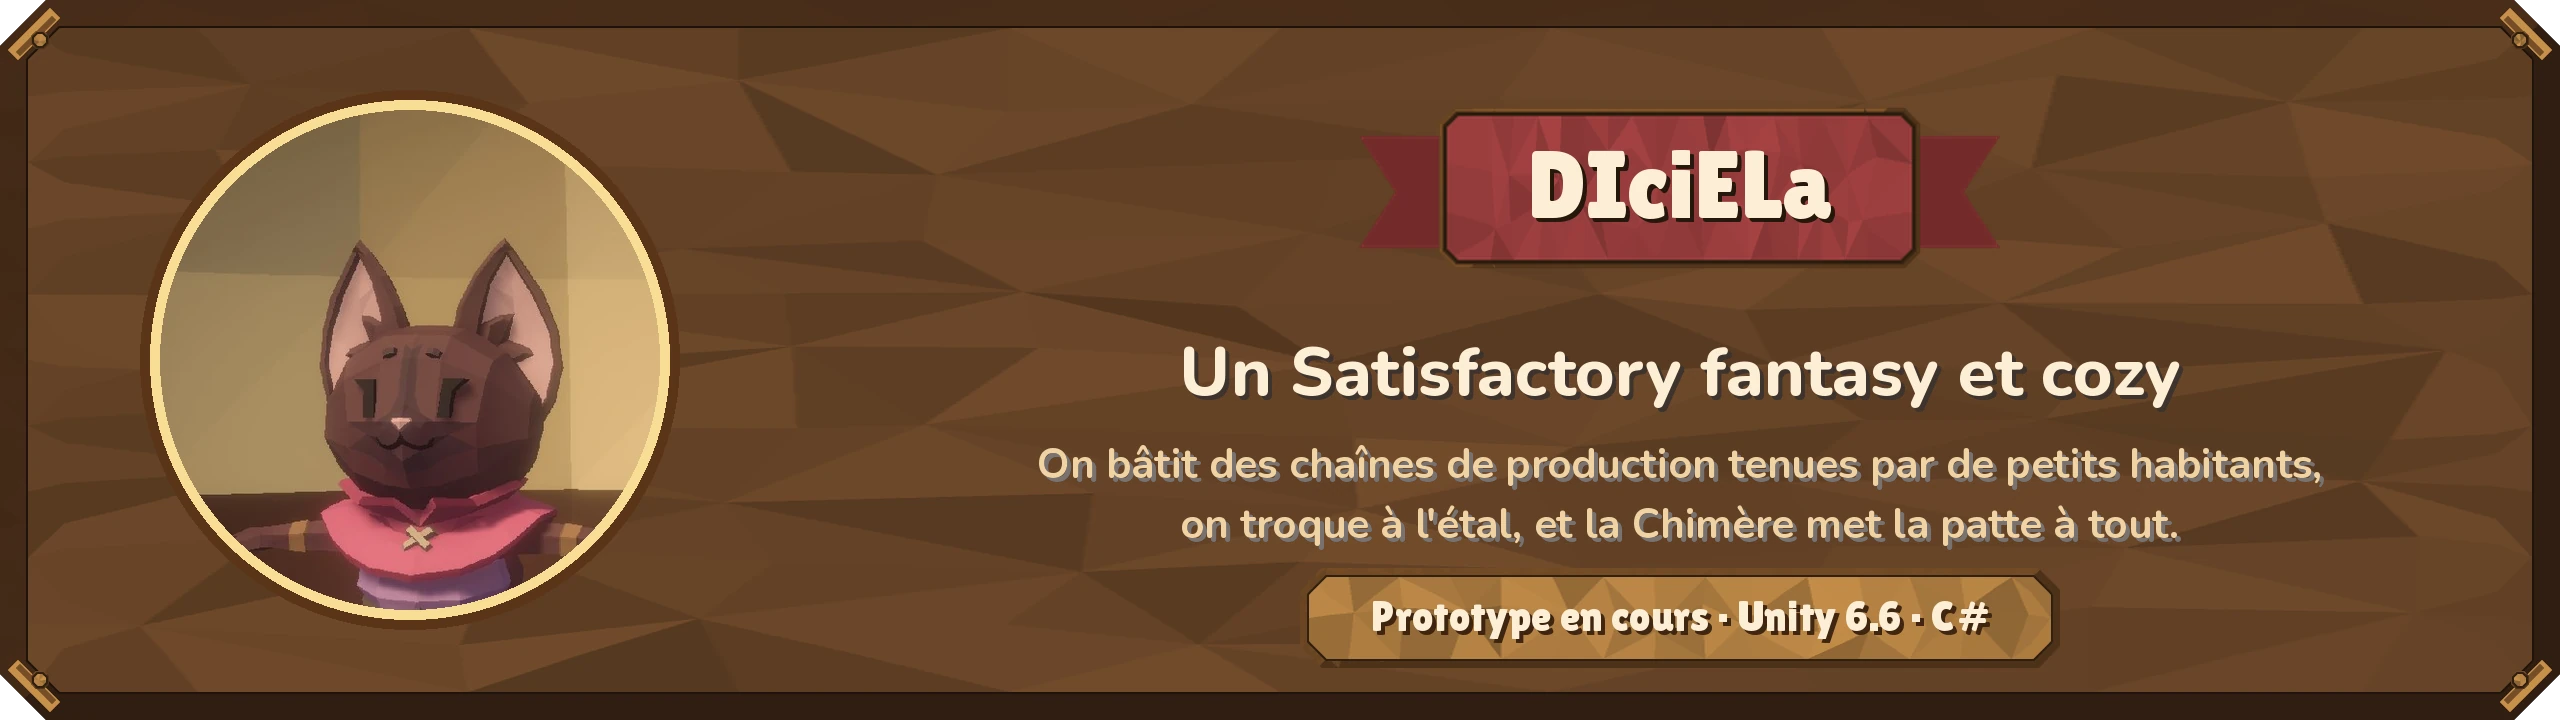
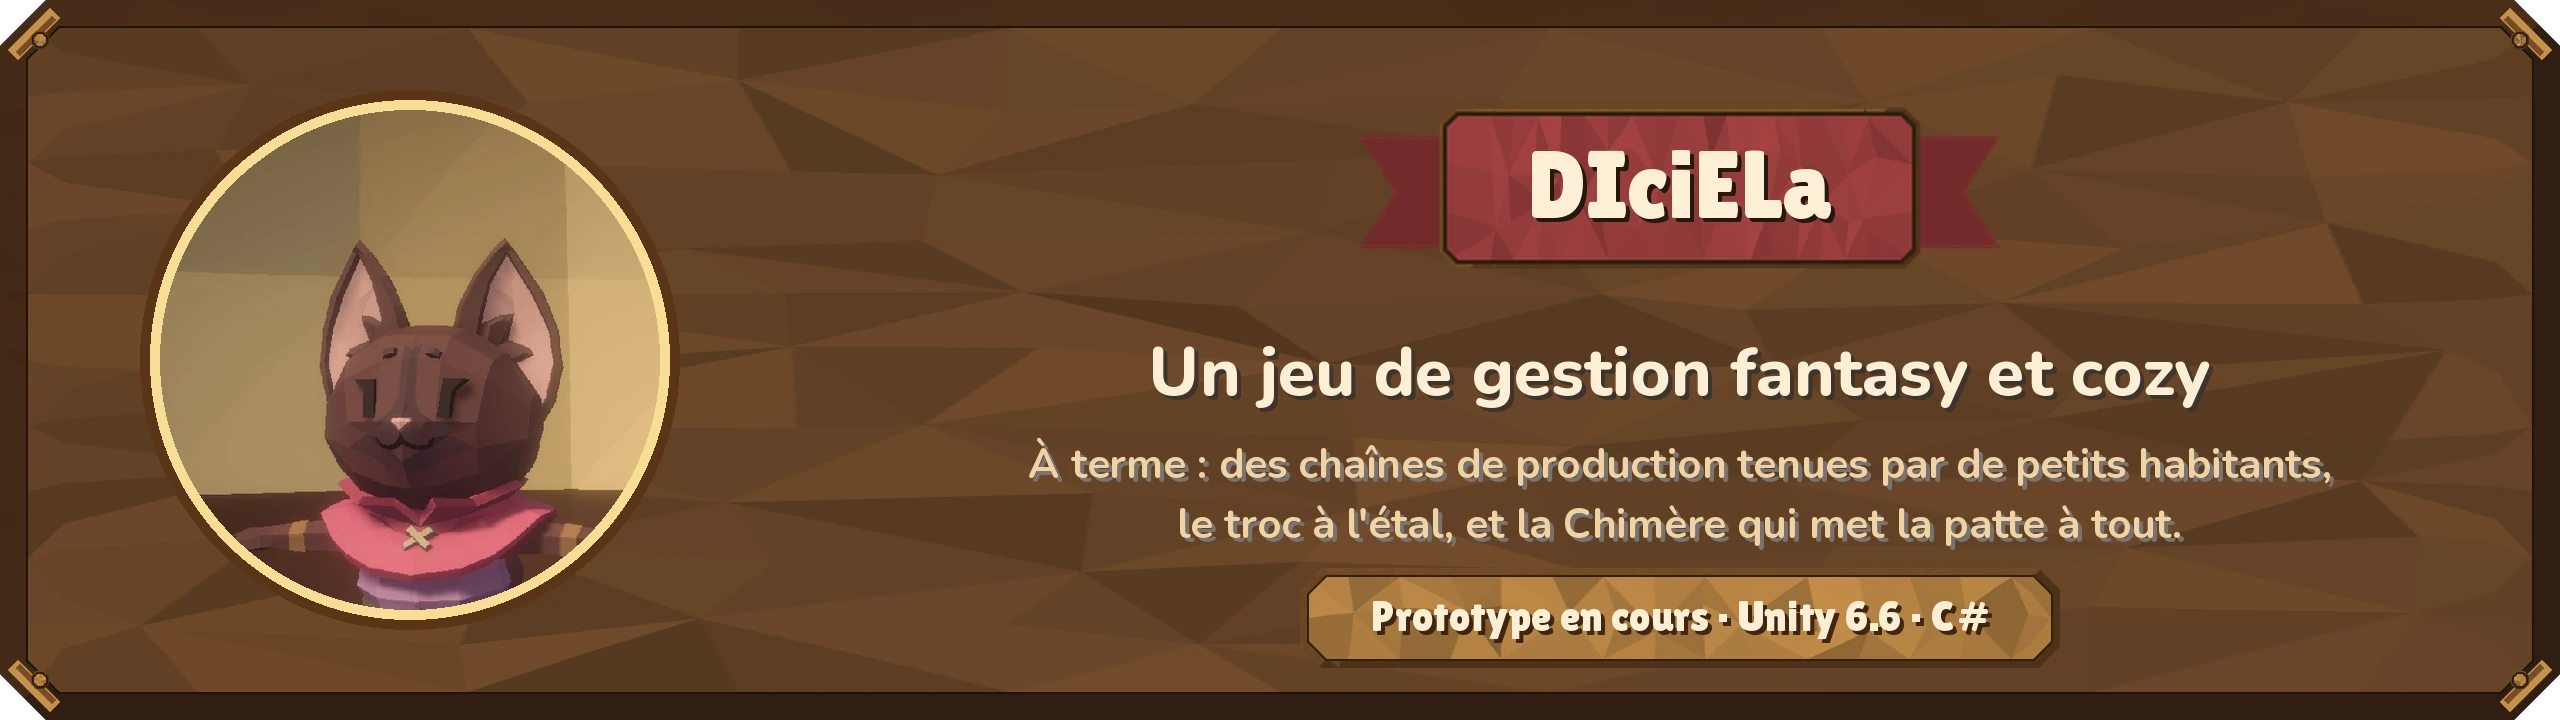
README de la vitrine : la part de Claude Code dite telle qu'elle est, et seulement ce qui existe
- Le C# est écrit par Claude Code ; je conçois, je tranche (souvent sur ses recommandations) et je vérifie en jeu : la
  formule d'avant le 14/10, rétablie.
- Ce qui viendra est au futur : les métiers qui progressent, les chaînes de production, le troc ; le résumé anglais aussi.
  La bannière dit « un jeu de gestion fantasy et cozy », plus « un Satisfactory fantasy » (Tools/vitrine_images.py).
- Ce qui était inexact : « C# pur » devient « C# sans MonoBehaviour ni scène » ; « aucun fichier » de plus de 200 lignes,
  « aucun fichier C# » ; « aucun nombre magique » part, la dette est dans ETAT.md ; « ateliers » quitte le schéma (stocks,
  chantiers, étals) ; le test d'architecture lit les règles recopiées d'ARCHITECTURE.md ; « trois habitants » : deux, et la
  Chimère ; « Code and docs are in French » : le code est en anglais ; les 35 outils : 9 pour le projet, 26 pour l'album ;
  « les images de cette page » : les bandeaux et les plaques, le reste étant des captures.
- La licence du pack, dite exactement : aucun modèle, maillage, texture ni animation n'est publié ; le dépôt a des
  captures, les vignettes des constructions et trois réglages repris de la démo.
- L'album perd les 14 planches de l'étape 13 qui montraient des pièces du pack hors du jeu, sur fond neutre ; une note les
  remplace.
- Tools/README.md : vitrine.sh reste dans le dépôt de travail.
- .claude/settings.json : le lien de session ne part plus dans les commits ; la co-signature reste.

Changed region(s): [[0.4375, 0.4889, 0.875, 0.5806], [0.4062, 0.6111, 0.9062, 0.6722], [0.4375, 0.7028, 0.8438, 0.7639]]

diff --git a/Tools/vitrine_images.py b/Tools/vitrine_images.py
@@ -118,10 +118,10 @@ def banniere() -> Image.Image:
     titre = ruban("DIciELa", 96)
     image.alpha_composite(titre, (int(milieu * S - titre.width / 2), int(46 * S)))
     dessin = ImageDraw.Draw(image)
-    ecrire(dessin, (milieu * S, 186 * S), "Un Satisfactory fantasy et cozy", police(NUNITO_FORT, 34), LIN)
+    ecrire(dessin, (milieu * S, 186 * S), "Un jeu de gestion fantasy et cozy", police(NUNITO_FORT, 34), LIN)
     lignes = [
-        "On bâtit des chaînes de production tenues par de petits habitants,",
-        "on troque à l'étal, et la Chimère met la patte à tout.",
+        "À terme : des chaînes de production tenues par de petits habitants,",
+        "le troc à l'étal, et la Chimère qui met la patte à tout.",
     ]
     for rang, ligne in enumerate(lignes):
         ecrire(dessin, (milieu * S, (232 + rang * 30) * S), ligne, police(NUNITO, 21), SABLE, (28, 16, 8, 150))

diff --git a/README.md b/README.md
@@ -1,21 +1,22 @@
 <p align="center">
-  <img src="Docs/Vitrine/banniere.webp" alt="DIciELa, un Satisfactory fantasy et cozy : la Chimère dans son médaillon, sur le panneau de bois de l'interface du jeu" width="100%">
+  <img src="Docs/Vitrine/banniere.webp" alt="DIciELa, un jeu de gestion fantasy et cozy, en prototype : la Chimère dans son médaillon, sur le panneau de bois de l'interface du jeu" width="100%">
 </p>
 
-> **In English.** DIciELa is a cozy fantasy production‑chain game, still a prototype (Unity 6.6, C#). Little villagers
-> with real jobs run your production chains, you barter at the market stall, and the Chimera, our mascot, lends a paw
-> everywhere. This repository also shows how it is built: a pure C# simulation whose boundaries are enforced by tests,
-> editor tools that build the project, and a framework that keeps an AI coding assistant on track. Code and docs are in
-> French.
+> **In English.** DIciELa is a cozy fantasy production‑chain game, still a prototype (Unity 6.6, C#). The plan: little
+> villagers with jobs run your production chains, you barter at the market stall, and the Chimera, our mascot, lends a
+> paw everywhere. Today, the first day is playable: creating the Chimera, the camp, building sites, paths, and a preview
+> of the finished town. This repository also shows how it is built: a C# simulation with no MonoBehaviour, whose
+> boundaries are enforced by tests, editor tools that build the project, and the framework I set up for Claude Code,
+> which writes the C#. The code is in English, the docs in French.
 
 <p align="center"><img src="Docs/Vitrine/ruban-le-jeu.webp" alt="Le jeu" height="56"></p>
 
 ![Une cabane coiffée de lierre, la Chimère qui s'affaire à côté, le bois et la pierre du campement, et la prochaine construction en fantôme](Docs/Album/2026-10-02_etape-28_toit-et-lierre.jpg)
 
 Tout commence par une clairière, un tas de bois, un peu de pierre, et la Chimère. On installe le campement, la Chimère y
-prend son poste : elle porte le bois et la pierre, et les cabanes montent planche par planche. Puis arrivent les premiers habitants : chacun a un métier, et
-progresse en travaillant. À terme, ce sont eux qui tiennent les chaînes de production, pendant que vous troquez à l'étal et
-décorez la ville à votre goût.
+prend son poste : elle porte le bois et la pierre, et les cabanes montent planche par planche. Puis arrivent les premiers
+habitants, chacun avec son métier. À terme, ils progresseront en travaillant et tiendront les chaînes de production,
+pendant que vous troquerez à l'étal et décorerez la ville à votre goût.
 
 Aujourd'hui, la **première journée se joue** : la création de la Chimère, le campement, les chantiers, les chemins, et la
 **prévision** (touche V), qui montre la ville telle qu'elle sera une fois ses chantiers finis. Une run roguelike viendra
@@ -23,15 +24,16 @@ après. Toute l'évolution, étape par étape, est dans [l'album](Docs/ALBUM.md)
 
 | La Chimère, dans l'atelier | Une cabane qui monte | Les premiers habitants |
 | :---: | :---: | :---: |
-| ![L'écran de création de la Chimère](Docs/Album/2026-10-01_etape-18a_creation-bois-brun.jpg) | ![Un chantier à mi-hauteur, la fiche de la cabane en dessous](Docs/Album/2026-10-01_etape-19_chantier-a-mi-hauteur.jpg) | ![La cabane bâtie, le campement et trois habitants](Docs/Album/2026-10-02_etape-36_premiers-habitants.jpg) |
+| ![L'écran de création de la Chimère](Docs/Album/2026-10-01_etape-18a_creation-bois-brun.jpg) | ![Un chantier à mi-hauteur, la fiche de la cabane en dessous](Docs/Album/2026-10-01_etape-19_chantier-a-mi-hauteur.jpg) | ![La cabane bâtie, le campement, la Chimère et deux habitants](Docs/Album/2026-10-02_etape-36_premiers-habitants.jpg) |
 
 <p align="center"><img src="Docs/Vitrine/chiffres.webp" alt="233 décisions, 540 tests, 35 outils d'éditeur, 13 assemblages" width="100%"></p>
 
 <p align="center"><img src="Docs/Vitrine/ruban-comment-je-le-construis.webp" alt="Comment je le construis" height="56"></p>
 
-DIciELa, c'est mon jeu : le design ([`GDD.md`](Docs/GDD.md)), les décisions, l'architecture et les essais en jeu. Le C#
-s'écrit avec un assistant de code, Claude Code, dans un cadre que j'ai construit pour garder la main sur le projet d'une
-session à l'autre. Ce cadre est dans le dépôt, à lire comme le reste :
+DIciELa, c'est mon jeu : le design ([`GDD.md`](Docs/GDD.md)), les décisions et les essais en jeu. Le C# est écrit par
+Claude Code : je débute en Unity et en C#, et j'apprends en le faisant expliquer. Moi, je conçois, je tranche (souvent sur
+ses recommandations, et c'est écrit dans les décisions) et je vérifie en jeu. Pour garder la main sur le projet d'une
+session à l'autre, il travaille dans un cadre que j'ai posé. Ce cadre est dans le dépôt, à lire comme le reste :
 
 - 📜 **Des règles courtes.** [`CLAUDE.md`](CLAUDE.md) tient en moins de 200 lignes. Les règles du C#, des données, des tests
   et des documents vivent dans [`.claude/rules/`](.claude/rules) et ne se chargent que quand on touche ces fichiers.
@@ -41,8 +43,8 @@ session à l'autre. Ce cadre est dans le dépôt, à lire comme le reste :
 - 🛡 **Un garde-fou.** Un hook lancé avant chaque commande ([`garde-unity.js`](.claude/hooks/garde-unity.js)) refuse ce qui
   figerait l'éditeur ou abîmerait la partie en cours, comme un `git checkout` qui rechargerait une scène ouverte.
 - 🧠 **Une mémoire hors de la conversation.** Chaque session commence par [`ETAT.md`](Docs/ETAT.md), trente lignes qui disent
-  où on en est. Chaque choix est numéroté, daté et justifié dans [`DECISIONS.md`](Docs/DECISIONS.md), et les pièges connus
-  sont dans [`SAVOIR.md`](Docs/SAVOIR.md). Une règle de jeu qui manque, l'assistant la demande au lieu de la deviner.
+  où en est le dépôt de travail. Chaque choix est numéroté, daté et justifié dans [`DECISIONS.md`](Docs/DECISIONS.md), et
+  les pièges connus sont dans [`SAVOIR.md`](Docs/SAVOIR.md). Une règle de jeu qui manque, l'assistant la demande au lieu de la deviner.
 - 🪜 **Une étape à la fois.** Une branche par étape, un commit qui ne part jamais sans les tests, et des captures dans
   l'album dès que quelque chose change à l'écran.
 - 🔁 **Repartir de zéro quand il le faut.** Un premier prototype empilait deux versions de chaque chose. Je l'ai arrêté :
@@ -50,16 +52,16 @@ session à l'autre. Ce cadre est dans le dépôt, à lire comme le reste :
 
 <p align="center"><img src="Docs/Vitrine/ruban-architecture.webp" alt="Une architecture qui se vérifie" height="56"></p>
 
-La simulation est du **C# pur**, à pas fixe, qui ne sait pas qu'elle est dessinée : elle lève des événements, la vue les
-écoute. Elle est découpée en assemblages, et un test compare les `.asmdef` au tableau de
-[`ARCHITECTURE.md`](Docs/ARCHITECTURE.md) : une référence de trop ou un dossier déplacé, et il échoue.
+La simulation est du **C# sans MonoBehaviour ni scène**, à pas fixe, qui ne sait pas qu'elle est dessinée : elle lève des
+événements, la vue les écoute. Elle est découpée en assemblages, et un test compare les `.asmdef` aux règles recopiées du
+tableau d'[`ARCHITECTURE.md`](Docs/ARCHITECTURE.md) : une référence de trop ou un dossier déplacé, et il échoue.
 
 ```mermaid
 %%{init: {'theme': 'base', 'themeVariables': {'primaryColor': '#F8DE95', 'primaryTextColor': '#4A2E3B', 'primaryBorderColor': '#A96F3F', 'lineColor': '#A96F3F', 'fontSize': '15px'}}}%%
 flowchart BT
   Data["Data<br/>les fiches"] --> Core["Simulation.Core<br/>temps, hasard, effets"]
   Core --> Land["Simulation.Land<br/>carte, constructions, sols"]
-  Land --> Economy["Simulation.Economy<br/>stocks, ateliers, chantiers"]
+  Land --> Economy["Simulation.Economy<br/>stocks, chantiers, étals"]
   Economy --> Society["Simulation.Society<br/>habitants, postes, logements"]
   Society --> Simulation["Simulation<br/>le monde qui tourne"]
   Simulation --> View & Controls & UI
@@ -79,25 +81,28 @@ flèche va d'un assemblage vers ceux qui ont le droit de le lire (le schéma est
 
 - ✅ **540 tests** au dernier passage (288 EditMode, 252 PlayMode). Un test passe par le chemin du joueur : le même appel que
   le geste en jeu.
-- 🗂 **Tout le contenu est donnée** : des ScriptableObjects, aucun nombre magique, aucun texte en dur (tout est dans
-  `strings.csv`).
-- ✂ **Aucun fichier de plus de 200 lignes.** Un fichier qui grossit est découpé dans l'étape.
+- 🗂 **Tout le contenu est donnée** : des ScriptableObjects, et aucun texte en dur (tout est dans `strings.csv`). Les
+  derniers réglages d'interface écrits dans le code sont notés comme une dette, dans `ETAT.md`.
+- ✂ **Aucun fichier C# de plus de 200 lignes.** Un fichier qui grossit est découpé dans l'étape.
 
 <p align="center"><img src="Docs/Vitrine/ruban-outils.webp" alt="Un éditeur qui monte le projet" height="56"></p>
 
 Rien ne se monte à la main : ce qui est scripté se refait et se versionne. Le menu `DICIELA` de l'éditeur compte
-**35 outils**. Ils montent les scènes, créent les fiches de données qui manquent, préparent et composent les modèles à partir
-du pack, et génèrent les images de l'interface et l'atelier de création. Ils photographient aussi les constructions pour
-leurs vignettes, et prennent les captures de l'album toujours du même point de vue, pour comparer d'une étape à l'autre.
+**35 outils**. Neuf servent le projet : ils montent les scènes, complètent les fiches de données et les actions du
+clavier, préparent et composent les modèles à partir du pack, génèrent les images de l'interface et l'atelier de création,
+photographient les constructions pour leurs vignettes, et lancent une partie. Les vingt-six autres prennent les captures de
+l'album, toujours du même point de vue, pour comparer d'une étape à l'autre.
 
 <p align="center"><img src="Docs/Vitrine/ruban-hors-depot.webp" alt="Ce qui n'est pas ici" height="56"></p>
 
-L'art vient du pack **POLYGON Fantasy Village** de Synty Studios, acheté sous licence. Ni le pack ni les fichiers tirés de
-lui (personnages découpés, modèles fusionnés, cadre de l'interface) ne sont publiés : les outils de l'éditeur les refont à
-partir du pack. Il faut donc le pack pour voir le jeu. Ce dépôt est une copie de mon dépôt de travail, sans ces fichiers,
-mise à jour de temps en temps.
+L'art vient du pack **POLYGON Fantasy Village** de Synty Studios, acheté sous licence. Aucun modèle, maillage, texture ni
+animation du pack n'est publié, ni les fichiers qu'on en tire (personnages découpés, modèles fusionnés, cadre de
+l'interface) : les outils de l'éditeur les refont à partir du pack. Le dépôt contient en revanche des captures du jeu, les
+vignettes des constructions (des rendus de modèles du pack, que l'interface montre) et trois fichiers de réglages repris de
+la scène de démonstration du pack : la carte, son calque de terre et ses filtres. Il faut donc le pack pour voir le jeu. Ce
+dépôt est une copie de mon dépôt de travail, sans ces fichiers, mise à jour de temps en temps.
 
 <p align="center"><sub>© 2026 Mateo Sanchez, tous droits réservés : le code est public pour être lu, pas pour être réutilisé
 sans mon accord. Le pack d'art reste la propriété de Synty Studios. Les polices Lilita One et Nunito sont sous licence SIL
-Open Font, avec leurs licences dans <code>Assets/UI/Polices</code>. Les images de cette page sont faites des éléments
-d'interface du jeu par <code>Tools/vitrine_images.py</code>.</sub></p>
+Open Font, avec leurs licences dans <code>Assets/UI/Polices</code>. Les bandeaux et les plaques de cette page sont faits
+des éléments d'interface du jeu par <code>Tools/vitrine_images.py</code> ; les autres images sont des captures du jeu.</sub></p>

diff --git a/Docs/ALBUM.md b/Docs/ALBUM.md
@@ -265,7 +265,7 @@ d'un refus de pose dans une bulle. Nets du 1280 × 720 à la 4K.
 La barbe encadre la bouche de chaque tête ; sous un bec ou un gros museau, elle se réduit au menton. De gauche à
 droite : chat, cochon, grenouille, lapin, oiseau, raton, renard, souris ; de face, de trois quarts, de profil.
 
-![La barbe sur les huit têtes](Album/2026-09-29_etape-13e_barbes.jpg)
+*Planche retirée du dépôt : elle montrait l'art du pack hors du jeu.*
 
 ### 29/09/2026 — étape 13e (fin) : chaque tête garde son museau, la barbe prend la couleur du poil
 
@@ -274,7 +274,7 @@ d'oreilles. En haut, la barbe sur le chat en six couleurs : elle suit maintenant
 oreilles du raton et du renard sur le chat, la souris, le lapin et le cochon, de trois quarts puis de dos : elles
 restent dans la silhouette du crâne.
 
-![La barbe en six couleurs, les oreilles du raton et du renard](Album/2026-09-29_etape-13e_barbe-et-oreilles.jpg)
+*Planche retirée du dépôt : elle montrait l'art du pack hors du jeu.*
 
 ### 29/09/2026 — étape 13e (fin, premier jet) : chaque tête porte son museau
 
@@ -282,7 +282,7 @@ Le museau de chaque animal se détache (le nez et la bouche du chat et du lapin,
 le museau est obligatoire. Chaque ligne, un museau sur les huit têtes : chat, cochon, grenouille, lapin, oiseau, raton
 laveur, renard, souris.
 
-![Les huit museaux sur les huit têtes](Album/2026-09-29_etape-13e_huit-museaux.jpg)
+*Planche retirée du dépôt : elle montrait l'art du pack hors du jeu.*
 
 ### 29/09/2026 — étape 13e (suite) : les museaux se détachent, les oreilles du raton se rapprochent
 
@@ -292,9 +292,7 @@ les huit têtes : le groin, le museau du raton, celui de la souris, le bec, puis
 oreilles du raton sur les huit têtes, de face, de dos, de trois quarts et de profil : sur une tête plus ronde que la
 sienne, elles se rapprochent du milieu au lieu de déborder du crâne.
 
-![Quatre museaux détachés et le groin du pack, sur les huit têtes](Album/2026-09-29_etape-13e_museaux-echanges.jpg)
-
-![Les oreilles du raton sur les huit têtes](Album/2026-09-29_etape-13e_oreilles-du-raton.jpg)
+*Planche retirée du dépôt : elle montrait l'art du pack hors du jeu.*
 
 ### 29/09/2026 — étape 13e : les oreilles et les pièces réglées tête par tête
 
@@ -306,9 +304,7 @@ trois quarts et de dos : la souris aux oreilles du raton, au nœud 1 debout et a
 l'arrière de la tête, rubans dans le dos ; la grenouille B à la couronne et aux boucles pendantes ; l'oiseau au groin
 monté sur le bec et aux anneaux droits.
 
-![Avant, puis après : les oreilles de cochon sur la grenouille, la cape 1 sur le raton](Album/2026-09-29_etape-13e_pieces-avant-apres.jpg)
-
-![Quatre Chimères aux pièces réglées, de face, de trois quarts et de dos](Album/2026-09-29_etape-13e_pieces-reglees.jpg)
+*Planche retirée du dépôt : elle montrait l'art du pack hors du jeu.*
 
 ### 29/09/2026 — étape 13d : proportions et places des pièces
 
@@ -318,7 +314,7 @@ grenouille), les chapeaux, les cheveux et les oreilles du pack ramenés à la me
 de cou et de dos plaqués au corps, une cape à la largeur des épaules. Avant, puis après : les oreilles de raton sur la
 grenouille, la cape 1, la bourse de profil, les oreilles de cochon, le chapeau 1, les cheveux 1.
 
-![Six pièces, avant puis après](Album/2026-09-29_etape-13d_pieces-avant-apres.jpg)
+*Planche retirée du dépôt : elle montrait l'art du pack hors du jeu.*
 
 ### 29/09/2026 — étape 13c : l'atelier de la Chimère
 
@@ -338,11 +334,7 @@ sans oreilles, et chaque paire se pose sur chacune. Le raton nu, puis avec ses o
 huit angles (de dos, deux petites pointes de fourrure restent à la base des oreilles) ; ses oreilles sur les seize
 têtes.
 
-![Le raton nu, puis avec ses oreilles](Album/2026-09-29_etape-13b_raton-nu-et-avec-ses-oreilles.jpg)
-
-![Le raton nu sous huit angles](Album/2026-09-29_etape-13b_raton-nu-sous-huit-angles.jpg)
-
-![Les oreilles du raton sur les seize têtes](Album/2026-09-29_etape-13b_oreilles-du-raton-sur-les-seize-tetes.jpg)
+*Planche retirée du dépôt : elle montrait l'art du pack hors du jeu.*
 
 ### 29/09/2026 — étape 13b : têtes en morceaux, pièces à leur place, menu de bois
 
@@ -356,11 +348,7 @@ soudées) ; les oreilles du lapin B sur les seize.
 
 ![L'écran de création, le menu de bois, le chat et ses oreilles](Album/2026-09-29_etape-13b_ecran-de-creation.jpg)
 
-![Chaque tête avec ses pièces d'office](Album/2026-09-29_etape-13b_tetes-et-leurs-pieces.jpg)
-
-![Le chapeau à fleurs sur les seize têtes](Album/2026-09-29_etape-13b_chapeau-sur-les-seize-tetes.jpg)
-
-![Les oreilles du lapin B sur les seize têtes](Album/2026-09-29_etape-13b_oreilles-de-lapin-sur-les-seize-tetes.jpg)
+*Planche retirée du dépôt : elle montrait l'art du pack hors du jeu.*
 
 ### 29/09/2026 — étape 13 : têtes, corps et couleurs
 

diff --git a/Tools/README.md b/Tools/README.md
@@ -10,6 +10,6 @@ Ils se lancent depuis la racine du projet, l'éditeur ouvert sur une scène prop
 | `playtests.sh` | `bash Tools/playtests.sh <dossier déjà créé>` : lance la campagne PlayMode en asynchrone, attend la fin (cinq minutes au plus), affiche le compte. Refuse de partir si l'éditeur est en Play. |
 | `console_after.js` | `node Tools/console_after.js apres.txt avant.txt [regex]` : ne garde que les entrées de console postérieures au début du Play. Sortie 1 si une erreur ou une exception est neuve. |
 | `vitrine_images.py` | `python Tools/vitrine_images.py` : refait les images du README (`Docs/Vitrine/`) avec les images d'interface, les polices et les couleurs du jeu. Il faut Pillow ; les chiffres affichés sont en tête du script. |
-| `vitrine.sh` | `bash Tools/vitrine.sh [branche]` : publie la branche (par défaut `main`) sur la vitrine publique `SNZMTO/DIciELa`, filtrée : sans les fichiers tirés du pack ni le nom de la session Windows. N'a pas besoin de l'éditeur ; il faut `git-filter-repo`. Rien n'est forcé : la vitrine refuse une branche qui ne descend pas de la précédente. |
+| `vitrine.sh` | `bash Tools/vitrine.sh [branche]` : publie la branche (par défaut `main`) sur la vitrine publique `SNZMTO/DIciELa`, filtrée : sans les fichiers tirés du pack ni le nom de la session Windows. N'a pas besoin de l'éditeur ; il faut `git-filter-repo`. Rien n'est forcé : la vitrine refuse une branche qui ne descend pas de la précédente. Il reste dans le dépôt de travail : la vitrine ne le copie pas. |
 
 Les sorties vont dans le dossier scratchpad de la session, jamais dans le projet.
